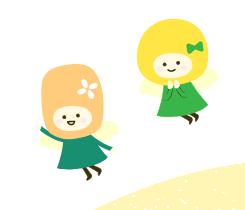
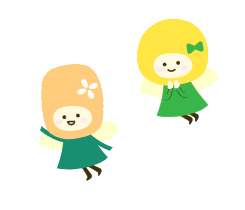
Pin the desktop artwork to the viewport and fill the screen on phones
Desktop: the decorative layer now uses position:fixed, so the hills,
clouds, characters, logo and nav stay put while the 375px column
scrolls over them. Ground pieces are anchored to the bottom edge and
sky pieces to the top so the scene still reads at any window height,
and the side pieces are clamped to stay on screen below 1920px (the
raw canvas mapping pushed the logo and fairies off a 1440px window).
At 1920px the placement is unchanged from the comp.

Phones: the comp is a fixed 375px grid, so scale the column to the
viewport with zoom() instead of leaving gutters on wider handsets.

Also key out the baked-in backgrounds on the veggie and fairy cutouts;
they showed as flat rectangles once the hills moved behind them.

diff --git a/local/css/desktop-deco.css b/local/css/desktop-deco.css
@@ -1,48 +1,66 @@
-/* ===== Desktop-only decoration, positioned relative to viewport center
-   using the same coordinate space as the original 1920px-wide canvas
-   (canvas center = 960px). offset = design_x - 960 ===== */
+/* ===== Desktop-only decoration =====
+   Horizontal placement keeps the original 1920px canvas mapping
+   (offset = design_x - 960, canvas centre = 960px).
 
+   Vertically the layer is pinned to the viewport (.desktop-deco is
+   position:fixed), so the artwork behaves like a fixed backdrop while
+   the 375px column scrolls over it. Ground pieces (hills, veggies,
+   fairies) are anchored to the bottom edge and sky pieces to the top,
+   so the scene still reads correctly at any window height. The offsets
+   below reproduce the comp exactly at a 1080px-tall viewport. */
+
+/* --- ground: anchored to the bottom of the viewport --- */
 .deco-hills-yellow {
   left: calc(50% - 1638px);
-  top: 658px;
+  bottom: -382px;          /* design top 658 + height 804 */
   width: 3829px;
 }
 
 .deco-hills-mask {
   left: calc(50% - 2013px);
-  top: 785px;
+  bottom: -564px;          /* design top 785 + height 859 */
   width: 4661px;
 }
 
+/* Side pieces are clamped so they stay on screen below 1920px, where the
+   raw canvas mapping would push them past the window edge. At 1920px the
+   clamp is inactive and the placement matches the comp exactly. */
 .deco-veggies {
-  left: calc(50% - 850px);
-  top: 875px;
+  left: max(16px, calc(50% - 850px));
+  bottom: 50px;            /* design top 875 + height 155 */
   width: 370px;
 }
 
 .deco-fairies {
-  left: calc(50% + 670px);
-  top: 625px;
+  right: max(20px, calc(50% - 915px));
+  bottom: 245px;           /* design top 625 + height 210 */
   width: 245px;
 }
 
+.deco-cloud-3 {            /* the low cloud that hugs the hills */
+  left: calc(50% - 87px);
+  bottom: 336px;
+  width: 179px;
+}
+
+/* --- sky: anchored to the top of the viewport --- */
 .deco-cloud-1 { left: calc(50% - 426px); top: 188px; width: 179px; }
 .deco-cloud-2 { left: calc(50% + 1083px); top: 120px; width: 179px; }
-.deco-cloud-3 { left: calc(50% - 87px); top: 647px; width: 179px; }
 .deco-cloud-4 { left: calc(50% + 1267px); top: 278px; width: 116px; }
 .deco-cloud-5 { left: calc(50% - 476px); top: 499px; width: 116px; }
 .deco-cloud-6 { left: calc(50% + 61px); top: 198px; width: 116px; }
 
-.deco-bird-1 { left: calc(50% + 860px); top: 141px; width: 39px; }
-.deco-bird-2 { left: calc(50% + 795px); top: 119px; width: 39px; }
+.deco-bird-1 { right: max(30px, calc(50% - 899px)); top: 141px; width: 39px; }
+.deco-bird-2 { right: max(70px, calc(50% - 834px)); top: 119px; width: 39px; }
 
+/* --- logo & nav: held around the vertical middle --- */
 .deco-logo {
-  left: calc(50% - 763px);
-  top: 405px;
+  left: max(24px, calc(50% - 763px));
+  top: calc(50% - 135px);  /* design top 405 at a 1080px viewport */
   width: 310px;
 }
 
 .desktop-nav {
   left: calc(50% + 318px);
-  top: 306px;
+  top: calc(50% - 234px);  /* design top 306 at a 1080px viewport */
 }

diff --git a/local/css/base.css b/local/css/base.css
@@ -40,10 +40,17 @@ img { max-width: none; display: block; }
   z-index: 2;
 }
 
-/* Desktop-only decorative layer, positioned relative to the same
-   1920px design canvas center that the mobile column is centered on. */
+/* Phones: the comp is a fixed 375px grid, so scale the whole column to
+   the viewport instead of leaving gutters on wider handsets. `zoom`
+   (unlike `transform`) still affects layout, so the page height follows. */
+@media (max-width: 767px) {
+  .lp { zoom: calc(100vw / var(--lp-w)); }
+}
+
+/* Desktop-only decorative layer. Pinned to the viewport so the artwork
+   stays put while the centre column scrolls over it. */
 .desktop-deco {
-  position: absolute;
+  position: fixed;
   inset: 0;
   z-index: 1;
   pointer-events: none;
@@ -54,10 +61,11 @@ img { max-width: none; display: block; }
   .desktop-deco { display: block; }
 }
 
+/* Each deco item sets its own top/bottom and left/right in desktop-deco.css.
+   No defaults here: a default top/left would win over a bottom/right in the
+   over-constrained case and silently ignore the anchoring. */
 .deco-item {
   position: absolute;
-  top: 0;
-  left: 50%;
 }
 
 .desktop-nav {
